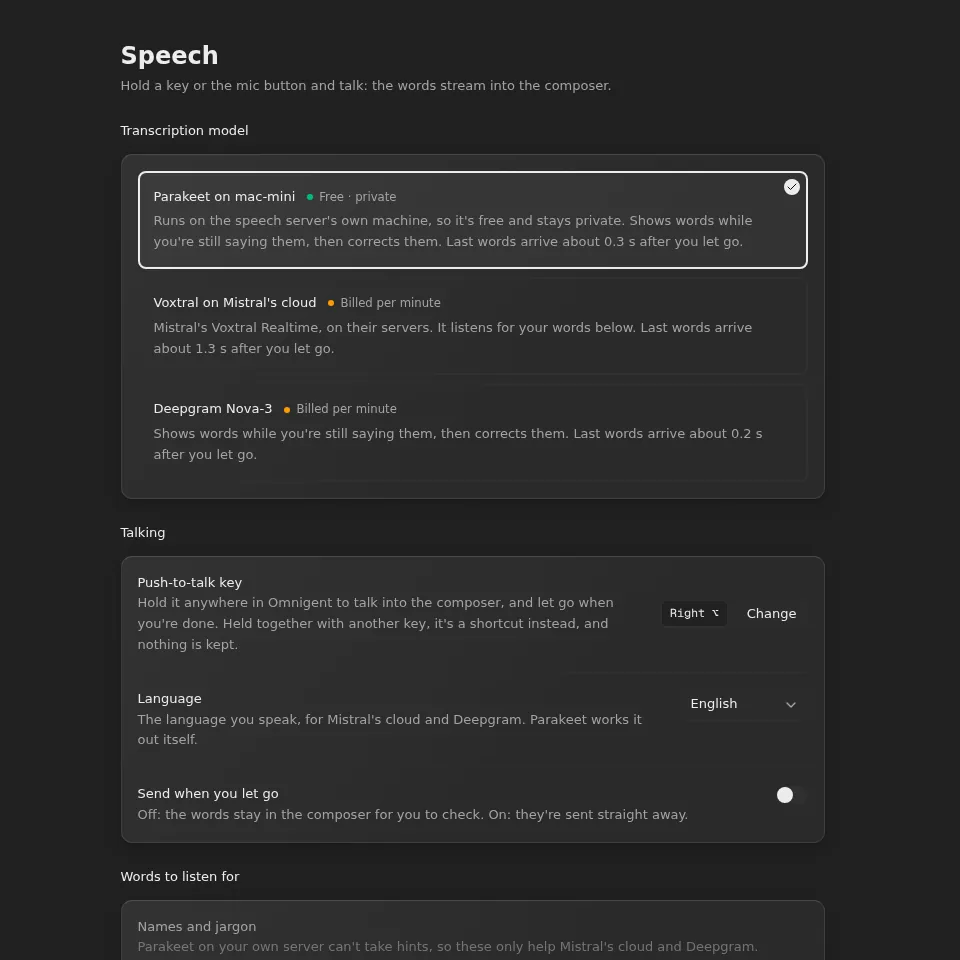
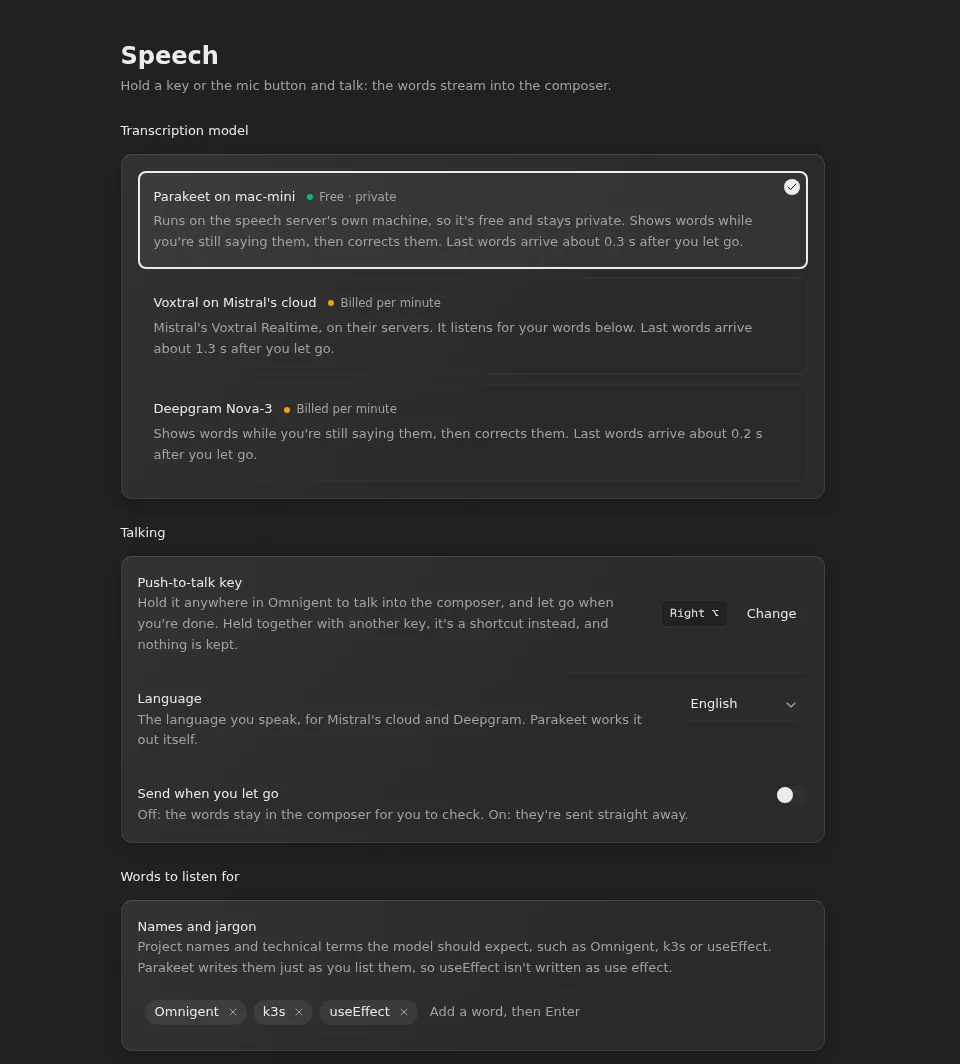
Push-to-talk: send the words to listen for to Parakeet too
The speech server's Parakeet now takes ?hint= (word boosting on the Mac
mini, ~/voxtral b8a221d), so every take sends the words to listen for,
whichever model it uses. The per-engine hints flag, and Settings → Speech
dimming the words for Parakeet, go.

Developer terms spoken through the live server (useEffect, gRPC, nginx,
Pydantic, ...): English 18/45 right without the words, 37/45 with them;
Dutch 5/28 -> 16/28. Ordinary speech (FLEURS) is unchanged.

diff --git a/docs/features/push-to-talk.md b/docs/features/push-to-talk.md
@@ -32,7 +32,7 @@ more European languages, and tells them apart by itself.
 
 ## Settings → Speech
 
-![Settings → Speech: the three models with their cost, the push-to-talk key with a Change button, the language set to English, Send when you let go, and the words to listen for, which Parakeet can't use](../images/push-to-talk-settings.webp)
+![Settings → Speech: the three models with their cost, the push-to-talk key with a Change button, the language set to English, Send when you let go, and the words to listen for with Omnigent, k3s and useEffect](../images/push-to-talk-settings.webp)
 
 | Setting | What it does |
 | --- | --- |
@@ -40,7 +40,7 @@ more European languages, and tells them apart by itself.
 | **Push-to-talk key** | The key you hold. **Change**, then press the key you want; Esc keeps the old one. Held together with another key, it's a shortcut instead, and the take is dropped. |
 | **Language** | The language you speak: **English** unless you pick **Dutch** or **Detect it**. It's for Mistral's cloud and Deepgram; Parakeet works it out itself. Deepgram drops words when it has to detect the language, so pick yours. |
 | **Send when you let go** | Off: the words stay in the composer. On: they're sent straight away. |
-| **Words to listen for** | Names and jargon the cloud models should expect, such as `Omnigent` or `k3s`. Parakeet on your own server can't use them. |
+| **Words to listen for** | Names and technical terms the models should expect, such as `Omnigent`, `k3s` or `useEffect`. Every model gets them. Parakeet is nudged towards them as it listens, and writes them just as you list them, so it's `useEffect`, not "use effect". |
 | **Speech server** | Where your voice goes, and whether this device can reach it. |
 
 These are saved in the browser, so set them once on each device. They're part
